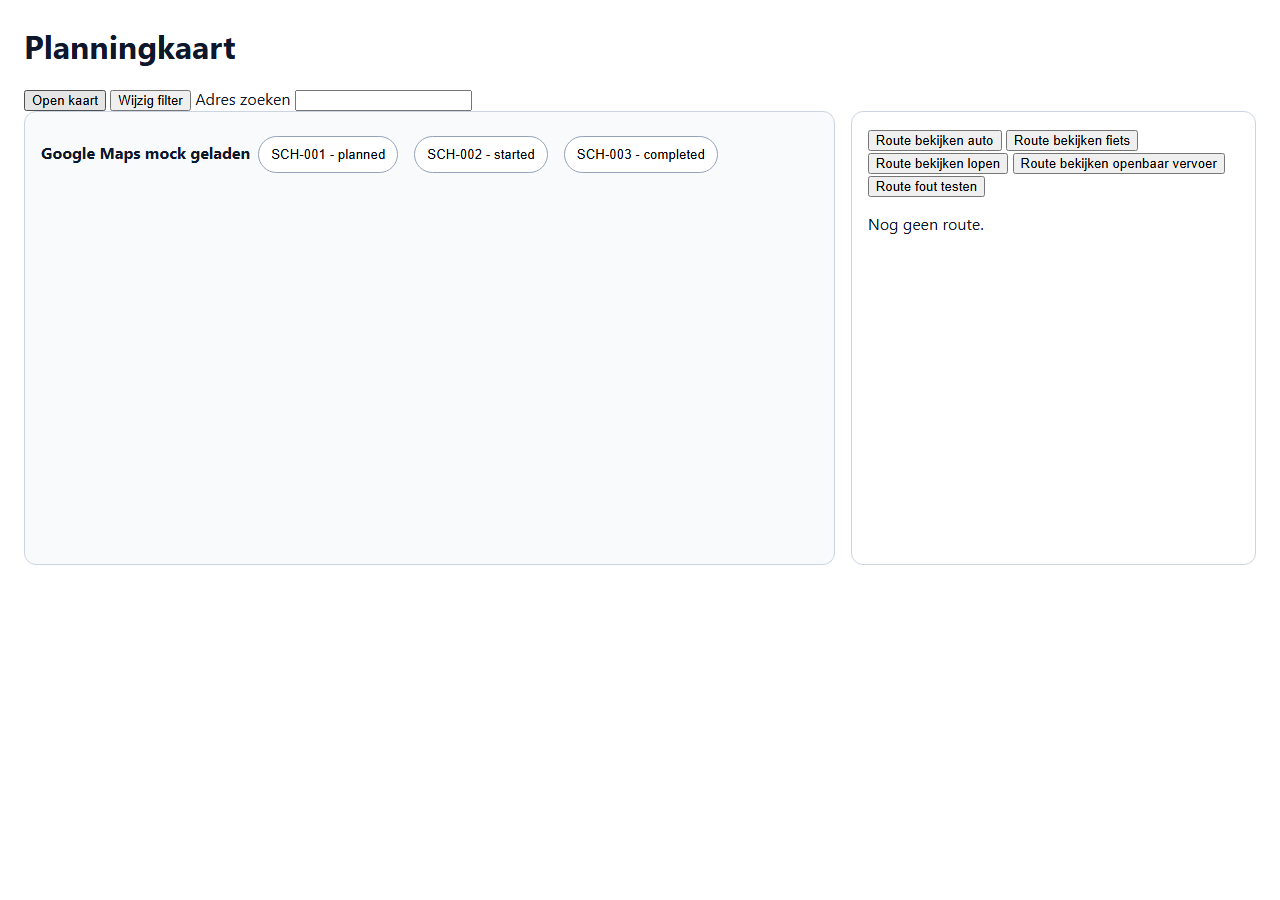
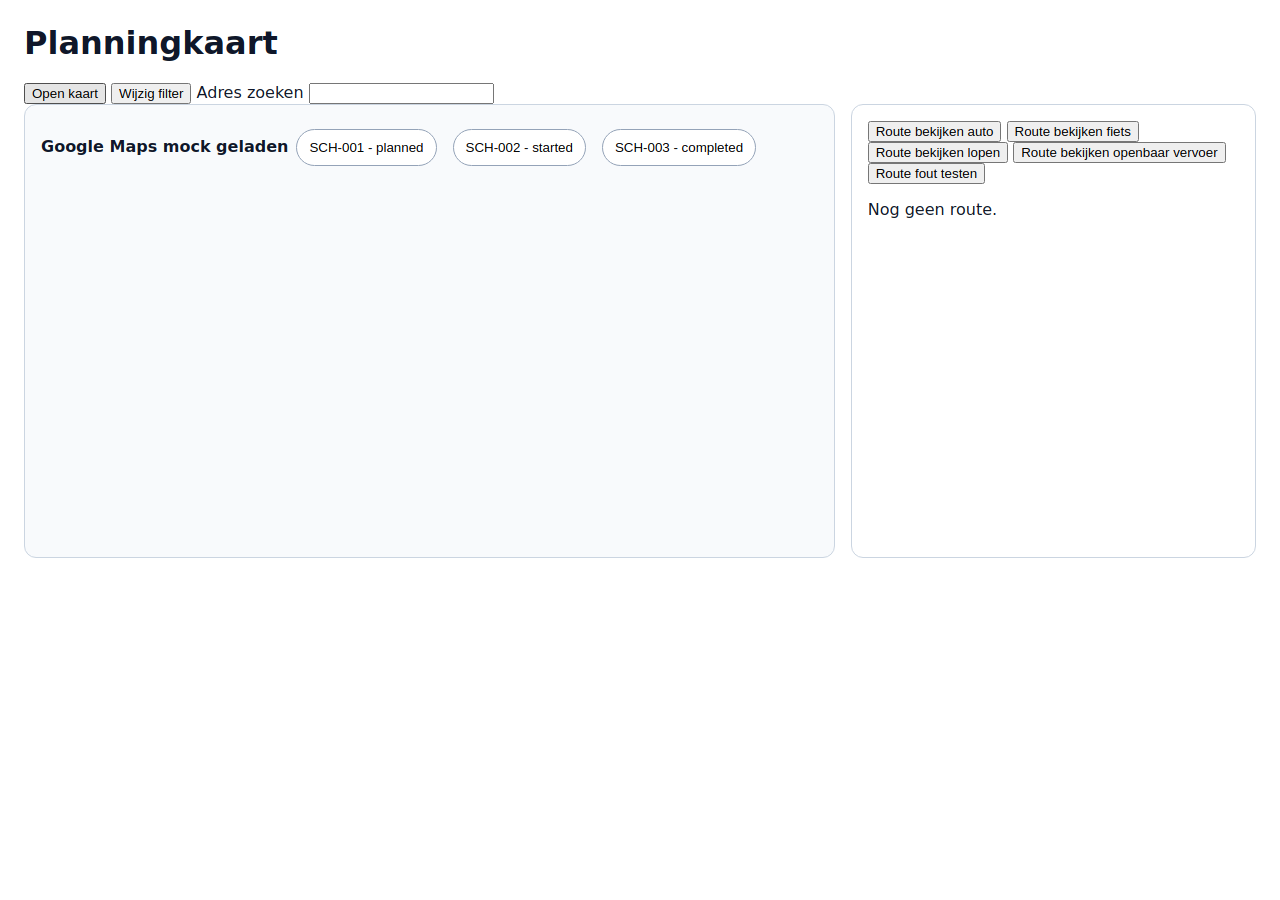
fix: restore Google address autocomplete

Changed region(s): [[0.6562, 0.1244, 0.9688, 0.28], [0.0, 0.0311, 0.375, 0.1244], [0.0312, 0.1556, 0.5938, 0.1867]]

diff --git a/artifacts/backoffice/src/app/api/google-maps/places/autocomplete/route.ts b/artifacts/backoffice/src/app/api/google-maps/places/autocomplete/route.ts
@@ -1,7 +1,7 @@
 import { NextResponse } from "next/server";
 import { z } from "zod/v4";
 import { createClientFromRequest } from "@/lib/supabase/server";
-import { hasPermissionFromRequest } from "@/lib/auth/permissions";
+import { hasAnyPermissionForRequestContext } from "@/lib/auth/permissions";
 import { requireCurrentTenantIdFromRequest } from "@/lib/auth/tenant";
 import {
   GooglePlacesClientError,
@@ -15,7 +15,7 @@ import { createSafeGoogleMapsError } from "@/lib/google-maps/errors";
 
 const autocompleteSchema = z.object({
   input: z.string().max(160),
-  sessionToken: z.string().min(8).max(128),
+  sessionToken: z.string().min(8).max(36),
   limit: z.number().int().min(1).max(10).optional(),
 });
 
@@ -36,16 +36,24 @@ function shouldRecordAutocompleteSession(input: {
   return true;
 }
 
-async function canUseAddressSearch(request: Request): Promise<boolean> {
-  const checks = await Promise.all([
-    hasPermissionFromRequest(request, "personnel", "read"),
-    hasPermissionFromRequest(request, "personnel", "write"),
-    hasPermissionFromRequest(request, "objects", "read"),
-    hasPermissionFromRequest(request, "objects", "write"),
-    hasPermissionFromRequest(request, "customers", "read"),
-    hasPermissionFromRequest(request, "customers", "write"),
-  ]);
-  return checks.some(Boolean);
+const ADDRESS_SEARCH_PERMISSIONS = [
+  { resource: "personnel", action: "read" },
+  { resource: "personnel", action: "write" },
+  { resource: "objects", action: "read" },
+  { resource: "objects", action: "write" },
+  { resource: "customers", action: "read" },
+  { resource: "customers", action: "write" },
+] as const;
+
+async function canUseAddressSearch(input: {
+  request: Request;
+  userId: string;
+  tenantId: string;
+}): Promise<boolean> {
+  return hasAnyPermissionForRequestContext({
+    ...input,
+    requirements: ADDRESS_SEARCH_PERMISSIONS,
+  });
 }
 
 export async function POST(request: Request) {
@@ -64,7 +72,7 @@ export async function POST(request: Request) {
         { status: 401 },
       );
     }
-    if (!(await canUseAddressSearch(request))) {
+    if (!(await canUseAddressSearch({ request, userId: user.id, tenantId }))) {
       return NextResponse.json(
         { error: createSafeGoogleMapsError("permission_denied") },
         { status: 403 },
@@ -198,4 +206,3 @@ export async function POST(request: Request) {
     return NextResponse.json({ error: safeError }, { status });
   }
 }
-

diff --git a/artifacts/backoffice/src/app/api/google-maps/places/details/route.ts b/artifacts/backoffice/src/app/api/google-maps/places/details/route.ts
@@ -1,7 +1,7 @@
 import { NextResponse } from "next/server";
 import { z } from "zod/v4";
 import { createClientFromRequest } from "@/lib/supabase/server";
-import { hasPermissionFromRequest } from "@/lib/auth/permissions";
+import { hasAnyPermissionForRequestContext } from "@/lib/auth/permissions";
 import { requireCurrentTenantIdFromRequest } from "@/lib/auth/tenant";
 import {
   GooglePlacesClientError,
@@ -15,19 +15,27 @@ import { createSafeGoogleMapsError } from "@/lib/google-maps/errors";
 
 const detailsSchema = z.object({
   placeId: z.string().min(6).max(255),
-  sessionToken: z.string().min(8).max(128),
+  sessionToken: z.string().min(8).max(36),
 });
 
-async function canUseAddressSearch(request: Request): Promise<boolean> {
-  const checks = await Promise.all([
-    hasPermissionFromRequest(request, "personnel", "read"),
-    hasPermissionFromRequest(request, "personnel", "write"),
-    hasPermissionFromRequest(request, "objects", "read"),
-    hasPermissionFromRequest(request, "objects", "write"),
-    hasPermissionFromRequest(request, "customers", "read"),
-    hasPermissionFromRequest(request, "customers", "write"),
-  ]);
-  return checks.some(Boolean);
+const ADDRESS_SEARCH_PERMISSIONS = [
+  { resource: "personnel", action: "read" },
+  { resource: "personnel", action: "write" },
+  { resource: "objects", action: "read" },
+  { resource: "objects", action: "write" },
+  { resource: "customers", action: "read" },
+  { resource: "customers", action: "write" },
+] as const;
+
+async function canUseAddressSearch(input: {
+  request: Request;
+  userId: string;
+  tenantId: string;
+}): Promise<boolean> {
+  return hasAnyPermissionForRequestContext({
+    ...input,
+    requirements: ADDRESS_SEARCH_PERMISSIONS,
+  });
 }
 
 export async function POST(request: Request) {
@@ -46,7 +54,7 @@ export async function POST(request: Request) {
         { status: 401 },
       );
     }
-    if (!(await canUseAddressSearch(request))) {
+    if (!(await canUseAddressSearch({ request, userId: user.id, tenantId }))) {
       return NextResponse.json(
         { error: createSafeGoogleMapsError("permission_denied") },
         { status: 403 },
@@ -169,4 +177,3 @@ export async function POST(request: Request) {
     return NextResponse.json({ error: safeError }, { status });
   }
 }
-

diff --git a/artifacts/backoffice/src/lib/auth/permissions.ts b/artifacts/backoffice/src/lib/auth/permissions.ts
@@ -295,6 +295,59 @@ export async function hasPermissionFromRequest(
   );
 }
 
+export type PermissionRequirement = {
+  resource: string;
+  action: string;
+};
+
+/**
+ * Check several alternative permissions for an already authenticated request.
+ *
+ * Route handlers commonly need to allow one operation from several modules.
+ * Calling `hasPermissionFromRequest` once per alternative repeats Supabase
+ * session validation and tenant resolution for every entry. Autocomplete calls
+ * are especially sensitive to that fan-out because they run while typing.
+ * This helper reuses the authenticated user and tenant context supplied by the
+ * route, loads the permission set once and checks only the relevant modules.
+ */
+export async function hasAnyPermissionForRequestContext(input: {
+  request: Request;
+  userId: string;
+  tenantId: string;
+  requirements: readonly PermissionRequirement[];
+}): Promise<boolean> {
+  const supportMode = await getCurrentSupportModeFromRequest(input.request);
+  const permissions = supportMode?.tenantId === input.tenantId
+    ? getSupportRuntimePermissions({ permissionKeys: supportMode.permissionKeys })
+    : await getUserPermissions(input.userId, input.tenantId);
+
+  const matchingRequirements = input.requirements.filter(({ resource, action }) =>
+    permissions.has(`${resource}:${action}`),
+  );
+  if (matchingRequirements.length === 0) return false;
+
+  const relevantModules = new Set<FieldgridModuleKey>();
+  for (const { resource } of matchingRequirements) {
+    const moduleKey = moduleForPermissionResource(resource);
+    if (moduleKey) relevantModules.add(moduleKey);
+  }
+
+  const enabledByModule = new Map<FieldgridModuleKey, boolean>();
+  await Promise.all(
+    [...relevantModules].map(async (moduleKey) => {
+      enabledByModule.set(
+        moduleKey,
+        await isTenantModuleEnabled(input.tenantId, moduleKey),
+      );
+    }),
+  );
+
+  return matchingRequirements.some(({ resource }) => {
+    const moduleKey = moduleForPermissionResource(resource);
+    return !moduleKey || enabledByModule.get(moduleKey) === true;
+  });
+}
+
 /**
  * Require a permission - throws if the current user does not have it.
  * Use at the top of sensitive Server Actions.

diff --git a/lib/db/src/google-places.ts b/lib/db/src/google-places.ts
@@ -6,8 +6,9 @@ export const GOOGLE_PLACE_DETAILS_URL_PREFIX =
 
 export const GOOGLE_PLACES_AUTOCOMPLETE_FIELD_MASK = [
   "suggestions.placePrediction.placeId",
-  "suggestions.placePrediction.text",
-  "suggestions.placePrediction.structuredFormat",
+  "suggestions.placePrediction.text.text",
+  "suggestions.placePrediction.structuredFormat.mainText.text",
+  "suggestions.placePrediction.structuredFormat.secondaryText.text",
   "suggestions.placePrediction.types",
 ].join(",");
 
@@ -137,8 +138,13 @@ function normalizeQuery(input: string): string {
   return input.trim().replace(/\s+/g, " ");
 }
 
+function normalizeGoogleRegionCode(value: string, fallback: string): string {
+  const normalized = value.trim().toLowerCase();
+  return /^[a-z]{2}$/u.test(normalized) ? normalized : fallback;
+}
+
 export function normalizeGooglePlacesSessionToken(value: string): string {
-  return value.trim().slice(0, 128);
+  return value.trim().slice(0, 36);
 }
 
 function assertGooglePlacesConfig(apiKey: string): void {
@@ -329,9 +335,9 @@ export async function fetchGooglePlacesAutocomplete(
     );
   }
 
-  const country = (input.country ?? "NL").toUpperCase();
+  const country = normalizeGoogleRegionCode(input.country ?? "NL", "nl");
   const language = input.language ?? "nl";
-  const region = (input.region ?? country).toUpperCase();
+  const region = normalizeGoogleRegionCode(input.region ?? country, country);
   const key = dedupeKey([
     "autocomplete",
     country,
@@ -398,7 +404,7 @@ export async function fetchGooglePlaceDetails(
   }
 
   const language = input.language ?? "nl";
-  const region = (input.region ?? "NL").toUpperCase();
+  const region = normalizeGoogleRegionCode(input.region ?? "NL", "nl");
   const key = dedupeKey(["details", language, region, placeName, sessionToken]);
 
   const { dedupeStatus, value } = await withInFlightDedupe(key, async () => {
@@ -424,4 +430,3 @@ export async function fetchGooglePlaceDetails(
     fieldMask: GOOGLE_PLACE_DETAILS_FIELD_MASK,
   };
 }
-

diff --git a/artifacts/klant-pwa/src/app/api/google-maps/places/autocomplete/route.ts b/artifacts/klant-pwa/src/app/api/google-maps/places/autocomplete/route.ts
@@ -7,7 +7,7 @@ import { fetchGooglePlacesAutocomplete, GooglePlacesClientError } from "@workspa
 
 const schema = z.object({
   input: z.string().max(160),
-  sessionToken: z.string().min(8).max(128),
+  sessionToken: z.string().min(8).max(36),
   limit: z.number().int().min(1).max(10).optional(),
 });
 

diff --git a/artifacts/personeel-pwa/src/app/api/google-maps/places/autocomplete/route.ts b/artifacts/personeel-pwa/src/app/api/google-maps/places/autocomplete/route.ts
@@ -8,7 +8,7 @@ import { fetchGooglePlacesAutocomplete, GooglePlacesClientError } from "@workspa
 
 const schema = z.object({
   input: z.string().max(160),
-  sessionToken: z.string().min(8).max(128),
+  sessionToken: z.string().min(8).max(36),
   limit: z.number().int().min(1).max(10).optional(),
 });
 

diff --git a/artifacts/klant-pwa/src/app/api/google-maps/places/details/route.ts b/artifacts/klant-pwa/src/app/api/google-maps/places/details/route.ts
@@ -7,7 +7,7 @@ import { fetchGooglePlaceDetails, GooglePlacesClientError } from "@workspace/db/
 
 const schema = z.object({
   placeId: z.string().min(6).max(255),
-  sessionToken: z.string().min(8).max(128),
+  sessionToken: z.string().min(8).max(36),
 });
 
 async function recordUsage(input: {

diff --git a/artifacts/personeel-pwa/src/app/api/google-maps/places/details/route.ts b/artifacts/personeel-pwa/src/app/api/google-maps/places/details/route.ts
@@ -8,7 +8,7 @@ import { fetchGooglePlaceDetails, GooglePlacesClientError } from "@workspace/db/
 
 const schema = z.object({
   placeId: z.string().min(6).max(255),
-  sessionToken: z.string().min(8).max(128),
+  sessionToken: z.string().min(8).max(36),
 });
 
 async function recordUsage(input: {
